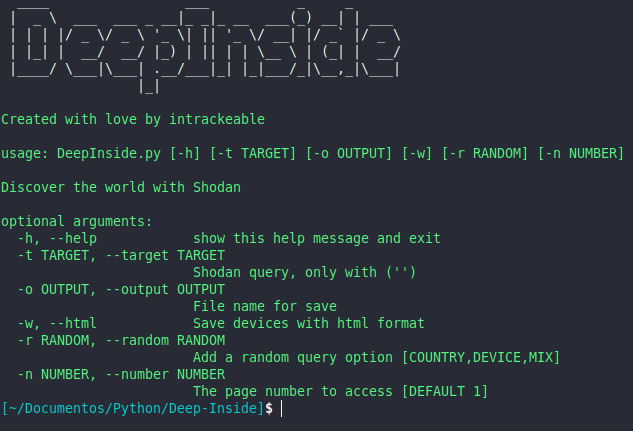
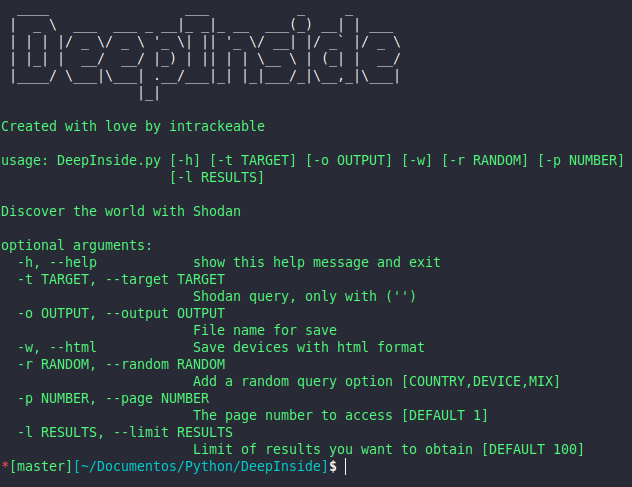
Update

diff --git a/DeepInside.py b/DeepInside.py
@@ -3,155 +3,177 @@
 try:
     import os, time, argparse, webbrowser
     from shodan import Shodan
-    from colorama import Fore
+    from colorama import Fore, Style
     from random import choice
 
 except ImportError:
     print(Fore.RED + 'Use pip install -r requirements.txt')
     CloseProgram()
 
+#COLORS
+class colors:
+    red = Fore.RED + Style.BRIGHT
+    green = Fore.LIGHTGREEN_EX
+    cyan = Fore.CYAN + Style.BRIGHT
+
+c = colors()
+
 global api
 api = '' #Insert your API KEY here
 
 def CloseProgram():
-    print(Fore.RED + '[SYSTEM EXIT]')
+    print(c.red + '[SYSTEM EXIT]')
     exit()
 
 def Options():
     parser = argparse.ArgumentParser(description='Discover the world with Shodan')
-    parser.add_argument('-t','--target',help="Shodan query, only with ('')")
+    parser.add_argument('-t','--target', help="Shodan query, only with ('')")
     parser.add_argument('-o','--output', help='File name for save')
-    parser.add_argument('-w','--html',help='Save devices with html format', action='store_true')
-    parser.add_argument('-r','--random',help='Add a random query option [COUNTRY,DEVICE,MIX]', type=str)
-    parser.add_argument('-n','--number', help='The page number to access [DEFAULT 1]', default=1, type=int)
+    parser.add_argument('-w','--html', help='Save devices with html format', action='store_true')
+    parser.add_argument('-r','--random', help='Add a random query option [COUNTRY,DEVICE,MIX]', type=str)
+    parser.add_argument('-p','--page', dest='number', help='The page number to access [DEFAULT 1]', default=1, type=int)
+    parser.add_argument('-l','--limit', dest='results', help='Limit of results you want to obtain [DEFAULT 100]', default=100, type=int)
 
     args = parser.parse_args()
-    return args.target, args.output, args.html, args.random, args.number
+    return args.target, args.output, args.html, args.random, args.number, args.results
 
 def ReplaceString(random,target): 
     if not random:
         target.strip('')
 
-def Finder(target,output,html,random,number):
-    motor = Shodan(api)
-    query = SelectOption(random,target,motor,number)
+def Finder(target,output,html,random,number,results):
     try:
+        motor = Shodan(api)
+        query = SelectOption(random,target,motor,number,results)
 
-        print('Total found: {}\n'.format(query['total']))
+        print('TOTAL FOUND: {}\n'.format(query['total']))
         time.sleep(1)
 
         for host in query['matches']:
+
             time.sleep(0.3)
-            print('IP: {} \nPort: {} \nOrg: {} \nAsn: {} \nOperating System: {}'.format(host.get('ip_str','None'), host.get('port','None'), host.get('org','None'), host.get('asn','None'), host.get('os','None')))
-            for x in host['location']:
-                print(x + ': ' + str(host['location'][x]))
+
+            ip = host.get('ip_str','None')
+            port = host.get('port','None')
+            org = host.get('org','None')
+            product = host.get('product','None')
+            os = host.get('os','None')
+            country = host['location']['country_name'] or 'None'
+            city = host['location']['city'] or 'None'
+
+            print('IP: {} \nPort: {} \nOrg: {}\nProduct: {} \nOperating System: {} \nCountry: {} \nCity: {}'.format(ip,port,org,product,os,country,city))
             print('\n')
-            SaveFile(host,output,html)
+
+            SaveFile(ip,port,org,product,os,country,city,output,html)
 
     except KeyboardInterrupt:
         CloseProgram()
+    
+    except Shodan.APIError as error:
+        print(c.red + 'ERROR: {}'.format(error))
 
 def ReportHtml(html,output): #In case of adding the html argument, check if file exists and add the extension
     if html:
-        if os.path.isfile(output):
+        if os.path.exists(output):
             os.rename(output,output + '.html')
-            option = input(Fore.CYAN + 'Open html report in browser ? (YES/NO) ')
+            option = input(c.cyan + 'Open HTML report in browser ? (YES/NO) ')
             if option == 'YES' or option == 'yes':
                 url = os.getcwd()
                 location = 'file://' + url + '/' + output + '.html'
                 webbrowser.open_new_tab(location)
-            else:
-                pass
 
 def GetRandomCountry(): #Select a random country code from codes.txt file
-    if os.path.isfile('codes.txt'):
+    if os.path.exists('codes.txt'):
 
         codelist = open('codes.txt','r')
         codelist = codelist.read().split('\n')
         country = choice(codelist)
+        print('Random Country: ' + country)
         country = 'country:' + country
-        print('Random ' + country)
         return country 
 
     else:
-        print(Fore.RED + 'File with country codes not found!')
+        print(c.red + 'File with country codes not found!')
         CloseProgram()
 
 def GetRandomDevice(): #Select a random Shodan query from devices.txt file
-    if os.path.isfile('devices.txt'):
+    if os.path.exists('devices.txt'):
 
         devicelist = open('devices.txt','r')
         devicelist = devicelist.read().split('\n')
         selected = choice(devicelist)
-        print('Random device: ' + selected)
+        print('Random Device: ' + selected)
         return selected
 
     else:
-        print(Fore.RED + 'File with device list in path not found!')
+        print(c.red + 'File with device list in path not found!')
         CloseProgram()
 
-def SelectOption(random,target,motor,number): #Send a query to shodan depending on its optional arguments
+def SelectOption(random,target,motor,number,results): #Send a query to shodan depending on its optional arguments
     if random == 'DEVICE' and not target:
 
         selected = GetRandomDevice()
-        query = motor.search(selected, page=number)
+        query = motor.search(selected, page=number, limit=results)
         return query
 
     elif random == 'COUNTRY' and target:
 
         country = GetRandomCountry()
-        query = motor.search('{} {}'.format(target,country), page=number)
+        query = motor.search('{} {}'.format(target,country), page=number, limit=results)
         return query
 
     elif not random and target:
 
-        query = motor.search(target, page=number)
+        query = motor.search(target, page=number, limit=results)
         return query
 
     elif not target and random == 'MIX':
 
         selected = GetRandomDevice()
         country = GetRandomCountry()
-        query = motor.search('{} {}'.format(selected,country), page=number)
+        query = motor.search('{} {}'.format(selected,country), page=number, limit=results)
         return query
     
     elif random == 'COUNTRY' and not target:
 
         country = GetRandomCountry()
-        query = motor.search(country)
+        query = motor.search(country, page=number, limit=results)
         return query
 
     else:
-        print(Fore.RED + 'Invalid options, remember: target argument is not compatible with --random DEVICE and MIX')
+        print(c.red + 'Invalid options, remember: target argument is not compatible with --random DEVICE and MIX')
         CloseProgram()
 
-def SaveFile(host,output,html):
+def SaveFile(ip,port,org,product,os,country,city,output,html):
     file = open(output,'a')
     if html:
-        file.write('<p><a href="http://{}:{}">{}:{}</a></p>\n'.format(host['ip_str'],host['port'],host['ip_str'],host['port']))
+        file.write('{} {} {} {} {}'.format(org,product,os,country,city))
+        file.write('<p><a href="http://{}:{}">{}:{}</a></p>\n'.format(ip,port,ip,port))
+        file.close()
     else:
-        file.write('{}:{}\n'.format(host['ip_str'],host['port']))
+        file.write('{}:{}\n'.format(ip,port))
+        file.close()
         
 def ShowBanner():
     os.system('clear')
     os.system('cat logo.txt')  
-    print(Fore.GREEN + 'Created with love by intrackeable \n')
+    print(c.green + 'Created with love by intrackeable \n')
     
 def main():
     ShowBanner()
 
-    target, output, html, random, number = Options() #Return argparse arguments
+    target, output, html, random, number, results = Options() #Return argparse arguments
 
     if output:
 
-        print(Fore.GREEN + 'Searching, please wait...\n')
+        print(c.green + 'Searching, please wait...\n')
         ReplaceString(random,target)
-        Finder(target,output,html,random,number)
+        Finder(target,output,html,random,number,results)
         ReportHtml(html,output)
 
     elif not output:
 
-        print(Fore.RED + 'File name not found!')
+        print(c.red + 'File name not found!')
         CloseProgram()
 
 if __name__ == '__main__': #Main program
